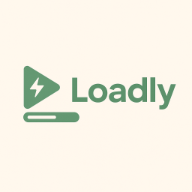
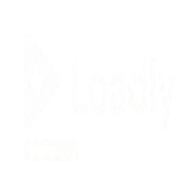
feat: image text check and update branding assets

Changed region(s): [[0.0938, 0.3438, 0.4375, 0.6562], [0.375, 0.375, 0.9375, 0.5938]]

diff --git a/app/api/generate/_lib/check-image-text.ts b/app/api/generate/_lib/check-image-text.ts
@@ -1,0 +1,75 @@
+import { ai } from "./ai";
+
+export interface ImageTextCheckResult {
+  extractedText: string;
+  issues: string[];
+  hasCriticalTypos: boolean;
+}
+
+export async function checkImageText(
+  imageDataUrl: string,
+  expectedText?: string
+): Promise<ImageTextCheckResult | null> {
+  try {
+    if (!imageDataUrl.startsWith("data:")) return null;
+
+    const match = imageDataUrl.match(/^data:(.+);base64,(.+)$/);
+    if (!match) return null;
+
+    const mimeType = match[1];
+    const base64 = match[2];
+
+    const prompt = `
+Jesteś ekspertem od kreacji reklamowych.
+
+1) Odczytaj cały widoczny tekst z przesłanego obrazu (nagłówki, CTA, małe teksty).
+2) Oceń, czy w tym tekście są literówki lub oczywiste błędy w języku polskim.
+3) Jeśli podano oczekiwany tekst reklamowy, porównaj z nim treść z obrazu.
+
+Zwróć WYŁĄCZNIE poprawny JSON w formacie:
+{
+  "extractedText": "...",    // cały tekst z obrazu w jednym polu
+  "issues": ["..."] ,         // lista opisów potencjalnych problemów (może być pusta)
+  "hasCriticalTypos": true/false // true jeśli są istotne błędy w tekście na obrazie
+}
+
+Jeśli nie widzisz żadnego tekstu na obrazie, ustaw extractedText na pusty string i issues na pustą tablicę.
+
+${
+  expectedText
+    ? `Oczekiwany tekst reklamowy (dla porównania):\n${expectedText}`
+    : ""
+}
+    `;
+
+    const res = await ai.models.generateContent({
+      model: "gemini-2.0-flash",
+      contents: [
+        {
+          parts: [{ text: prompt }, { inlineData: { mimeType, data: base64 } }],
+        },
+      ],
+    });
+
+    const rawText: string =
+      (res as any).text ??
+      res.candidates?.[0]?.content?.parts
+        ?.map((p: any) => p.text || "")
+        .join("\n") ??
+      "{}";
+
+    try {
+      const parsed = JSON.parse(rawText.replace(/```json|```/g, "").trim());
+      return {
+        extractedText: parsed.extractedText || "",
+        issues: Array.isArray(parsed.issues) ? parsed.issues : [],
+        hasCriticalTypos: Boolean(parsed.hasCriticalTypos),
+      };
+    } catch {
+      return null;
+    }
+  } catch (e) {
+    console.error("❌ checkImageText failed", e);
+    return null;
+  }
+}

diff --git a/app/api/generate/route.ts b/app/api/generate/route.ts
@@ -10,6 +10,7 @@ import { findProductImages } from "@/lib/scrape-image";
 import { findStoreLogo } from "@/lib/scrape-logo";
 import { generateText } from "./_lib/generate-text";
 import { generateImage } from "./_lib/generate-image";
+import { checkImageText } from "./_lib/check-image-text";
 
 async function verifyTurnstile(token: string) {
   const res = await fetch(
@@ -142,7 +143,15 @@ export async function POST(req: NextRequest) {
           logoInline,
         });
 
-        variants[key] = { ...text, image };
+        const expectedText = `${text.headline ?? ""}\n${
+          text.postDescription ?? ""
+        }`.trim();
+        const safeImage = image || "";
+        const imageTextCheck = safeImage
+          ? await checkImageText(safeImage, expectedText || undefined)
+          : null;
+
+        variants[key] = { ...text, image: safeImage || image, imageTextCheck };
       })
     );
 

diff --git a/app/layout.tsx b/app/layout.tsx
@@ -34,7 +34,7 @@ export const metadata: Metadata = {
     type: "website",
     images: [
       {
-        url: "/og-image.png",
+        url: "/logo2.png",
         width: 1200,
         height: 630,
         alt: "Loadly | Generator reklam",
@@ -47,7 +47,7 @@ export const metadata: Metadata = {
     title: "Loadly | Generator reklam",
     description:
       "Wklej link, wygeneruj i opublikuj reklamę na FB/IG jednym kliknięciem.",
-    images: ["/og-image.png"],
+    images: ["/logo2.png"],
   },
 
   robots: {

diff --git a/app/not-found.tsx b/app/not-found.tsx
@@ -31,7 +31,7 @@ export default function NotFound() {
         </p>
 
         {/* CARD */}
-        <div className="p-6 rounded-2xl border border-[var(--color-border)] bg-white/60 backdrop-blur-md shadow-lg">
+        <div className="p-6 rounded-2xl border border-[var(--color-border)] bg-black/50 backdrop-blur-md shadow-lg">
           <p className="text-[var(--color-foreground)] font-medium mb-4">
             Chcesz wrócić na stronę główną?
           </p>

diff --git a/app/how-it-works/page.tsx b/app/how-it-works/page.tsx
@@ -26,7 +26,7 @@ export default function HowItWorks() {
           initial={{ opacity: 0, y: 25 }}
           animate={{ opacity: 1, y: 0 }}
           transition={{ delay: 0.1 }}
-          className="mt-4 text-lg text-muted-foreground"
+          className="mt-4 text-lg text-frontend"
         >
           Loadly przekształca zwykły link produktu w gotową reklamę — obraz,
           tekst, CTA i format idealny pod FB/IG.

diff --git a/app/globals.css b/app/globals.css
@@ -38,8 +38,8 @@
   /* Główny gradient tła – różowy okrąg na granatowym tle */
   --background-main: radial-gradient(
     circle at center,
-    #f9a8ff 0%,
-    #c084fc 20%,
+    #b854bf 0%,
+    #7f6ce7 20%,
     #4f46e5 50%,
     #020617 100%
   );
